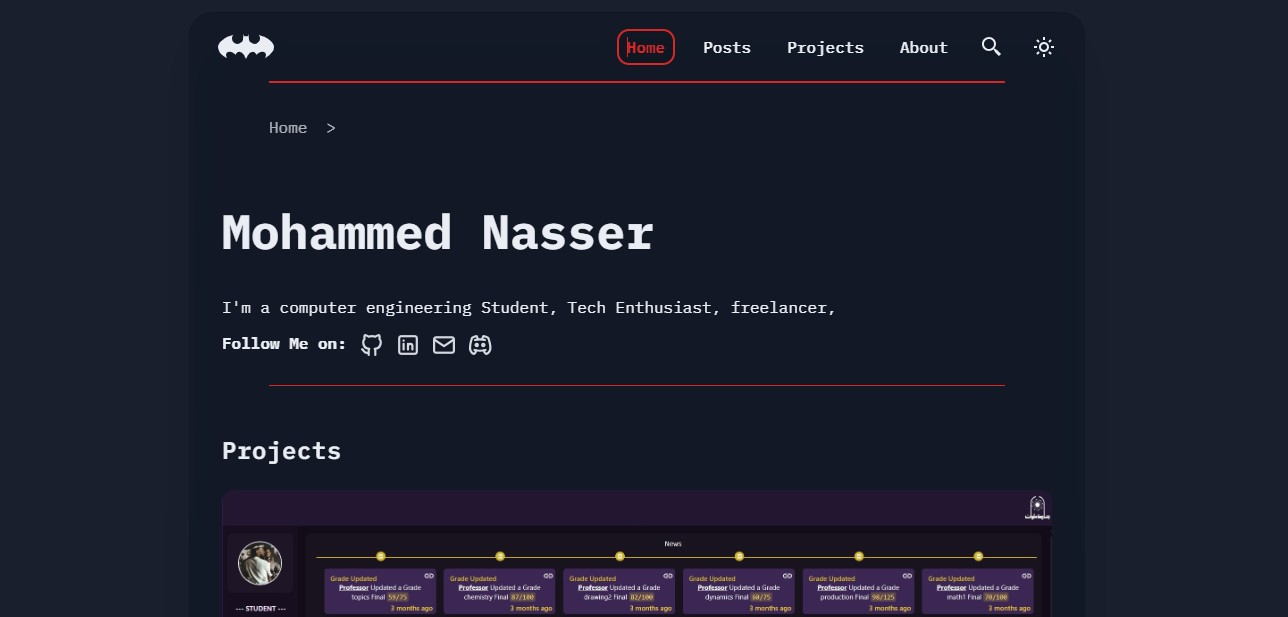
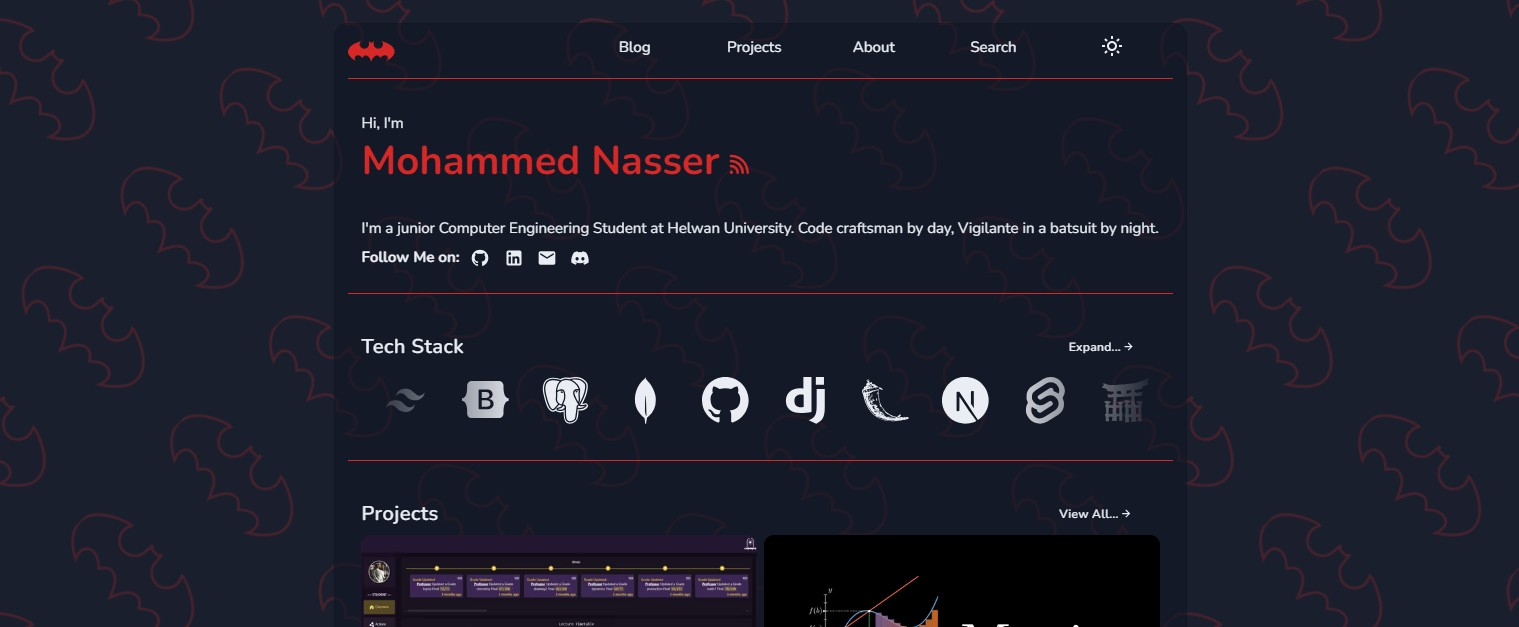
refactor sorting items needs type gymnastics, adding new project, fix datetime component

diff --git a/src/pages/rss.xml.ts b/src/pages/rss.xml.ts
@@ -1,20 +1,17 @@
 import rss from "@astrojs/rss";
 import { getCollection } from "astro:content";
-import getSortedPosts from "@utils/getSortedPosts";
+import getSorted from "@utils/getSortedPosts";
 import slugify from "@utils/slugify";
 import { SITE } from "@config";
 
 export async function GET() {
-  const posts = await getCollection("blog");
-  const sortedPosts = getSortedPosts(posts);
-  const projects = await getCollection("blog");
-  const items = [...sortedPosts, ...projects].map(({ data, collection }) => ({
+  const sortedPosts = await getSorted("blog", "projects");
+  const items = sortedPosts.map(({ data, collection }) => ({
     link: `${collection == "blog" ? "blog": "projects"}/${slugify(data)}`,
     title: data.title,
     description: data.description,
     pubDate: new Date(data.dateTime),
   })) 
-  
   return rss({
     title: SITE.title,
     description: SITE.desc,

diff --git a/src/utils/getSorted.ts b/src/utils/getSorted.ts
@@ -1,0 +1,15 @@
+import  { getCollection  } from "astro:content";
+
+const getSorted = async (...itemTypes: ("blog" | "projects")[]) => {
+const items = await Promise.all(itemTypes.map(async itemType => await getCollection(itemType))).then(entries => entries.flat());
+const sortedItems = items
+    .filter(({ data }) => !data.draft)
+    .sort(
+      (a, b) =>
+        new Date(b.data.dateTime).getTime() -
+        new Date(a.data.dateTime).getTime()
+    );
+      return sortedItems;
+} ;
+
+export default getSorted;

diff --git a/src/config.ts b/src/config.ts
@@ -259,6 +259,14 @@ export const HOBBIES = [
       display: false
   
     },
+    vercel: {
+      name: "Vercel",
+      icon: "simple-icons:vercel",
+      url: "https://vercel.com/",
+      description: "A platform for hosting and deploying websites.",
+      type: "Technology",
+      display: true
+    },
     docker: {
       name: "Docker",
       icon: "mdi:docker",

diff --git a/src/content/projects/portfolio.md b/src/content/projects/portfolio.md
@@ -1,0 +1,314 @@
+---
+dateTime: 2023-12-23T00:00:00Z
+title: Personal Blog & Portfolio
+description: Non-trivial astro personal blog and porftfolio.
+slug: this
+projectURL: https://github.com/elweday/elweday
+tags:
+  - astro
+  - SSR
+  - SSG
+  - algorithms
+  - optimization
+
+stack:
+  - astro
+  - typescript
+  - javascript
+  - vercel
+
+media:
+  - "../images/portfolio.jpg"
+---
+
+## Astro
+Astro has the most trivial way to implement a blog thx to [Content Collections](https://docs.astro.build/en/guides/content-collections/), the start project is literally a blog and there other starting blog templates like [AstroPaper](https://astro.build/themes/details/astro-paper/) (this blog was based on it) , however this project has some intersting non-trivial implementations.
+
+## opt-in to SSR
+This project was inilially intended to be `statically generated` and deployed to github pages, why not you might ask ?
+I thought of it as a challenge to go back to the classics doing as much as possible with just plain old js, maybe with sprinkles of typescript, but the logic holds.
+
+However, When implementing this contact me form, it will use an API service to deliver the message to me, and this service will require an API key, and to make everything clientside ... this API key would be sent to the user, which is not obviously not safe, It can be redacted but cannot completly removed. 
+![Contact me](../images/form.jpg)
+
+So, generally when using sensitive data it should be server-side. 
+
+```typescript
+import { defineConfig } from "astro/config";
+
+export default defineConfig({
+  // options
+  output: "hybrid", // default "static" also takes "server" 
+});
+```
+
+output `hybrid` basically means you're using SSG (static site generation) mode, unless you say otherwise.
+you can use this snippet in your desired path to make it serverside rendered.
+
+```typescript
+// in `pages/path.astro`
+export const prerender = false;
+```
+
+## SEO
+Astro went big on SEO, 
+
+It's a common practice in Astro to make a template that takes  
+```astro
+    ---
+    export interface Props {
+      title: string;
+      description?: string;
+      ogImage?: string;
+    }
+
+    let {
+      title = "Fallback title",
+      description = "Fallback desc",
+      ogImage = "/assets/fallback.jpg",
+    } = Astro.props;
+
+    const author = "Nasser"
+    const canonicalURL = new URL(Astro.url.pathname, Astro.site).href; 
+
+    ---
+    <!-- Other content -->
+    <head>
+      <meta charset="UTF-8" />
+      <meta name="viewport" content="width=device-width" />
+      <link rel="icon" type="image/svg+xml" href="/favicon.svg" />
+      <link rel="canonical" href={canonicalURL} />
+      <meta name="generator" content={Astro.generator} />
+      <title>{title}</title>
+      <meta name="title" content={title} />
+      <meta name="description" content={description} />
+      <meta name="author" content={SITE.author} />
+      <link rel="sitemap" href={SITE.website+"/rss.xml"} />
+    </head>
+    <body>
+        <header><!-- header --></header>
+        <aside><!-- side bar --></aside>
+        <slot>
+        <footer><!-- footer --></footer>
+    </body>
+```
+It's a common practice in astro to use a Layout component to add all the meta tags and overwrite it when desired and never worry about them.
+
+### Dynamic OG images
+when you're posting some post to facebook (YOU'RE A BOOMER) you might find the post look something like this.
+![Dynamic OG](../images/dynamic-og.jpg)
+  
+To implement this behaviour you add meta tags like this one. 
+```html
+<meta property="og:image" content="<url>" />
+```
+but wait a minute, this way makes all posts has the same image, or you create an Image for every post by hand, which is impossible,
+that's why it is done dynamically, which is hard but recently it was made easier thanks to vercel's `satori` (Sounds like an Anime character)
+which takes JSX-like markup and returns svg image, and then you might use something like `resvg`to convert the svg bufer to a png.
+Now how to make it into a dynamic image on the web ?
+on your framework of choice you can add an API Endpoint, 
+make it return
+```typescript
+export const GET: APIRoute = async ({ props }) =>
+  new Response(await generateOGImage(props), {
+    headers: { "Content-Type": "image/png" },
+});
+```
+and you might make all the images generated on build time in astro by supplying `getStaticPaths` function.
+```typescript
+export async function getStaticPaths() {
+  const posts = await getCollection("blog");
+  return posts.map(post => ({
+    params: { slug: post.slug },
+    props: post,
+  }));
+}
+```
+
+so that if the post is at `https://your-domain.com/blog/portfolio`, the OG Image is at `https://your-domain.com/blog/portfolio.png` or any other setup you like.
+Then add it dynamically to the layout
+```astro
+<meta property="og:image" content={`https://your-domain.com/blog/${postSlug}.png`} />
+```
+
+## Image optimization
+One of the most important aspects of a website is performance
+what to render, when to render it, and how to do so, all to ensure the best performance.
+You can approach that by optimizing images to make the website load fast and provide better user experience.
+
+Astro provides modulues to 
+- Compress Images to multiple versions that are used according to the users need.
+- Which will decrease bundle size.
+- Decrease load time.
+- Done at either build or runtime.
+- Use `webp` or `avif` that are modern lighter alternative formats.
+
+## View transitions 
+You might have seen view transitions api used, if not check it out in examples like [this one](https://live-transitions.pages.dev/) for multitude of things, but I'll show you how I used it to animate navbar state based on current route.
+
+```astro
+          <ul id="menu" class="nav-items-container ">
+            {
+              PATHS.map(({name, path, icon}) => {
+                const isActive = currentPagePath.includes(trim(path, "/"))
+                return (
+                  <li class="nav-item-wrapper">
+                    this 
+                    <a href={path}  class={"nav-item" + (isActive?" non-animating-styles":"")}>
+                      <span class="place-self-center  w-full">{name}</span>
+                    </a>
+                    {/* Moving Rectangle */ 
+                     isActive ? (<span transition:name="active-nav" class="absolute top-0 left-0 h-full hidden sm:block w-full  border-skin-accent bg-black/10 border-2 rounded-xl"></span>) : null }
+                    </li>)
+              })
+          }
+```
+and used the same way to implement tabs, and here is the output.
+![View Transitions](../images/view-transitions-loop.gif)
+
+## Search
+### Search by tag
+This is server-side, gets the query params and renders the posts assiociated with the desired tags.
+
+```typescript
+import { slugifyAll } from "./slugify";
+import type { CollectionEntry } from "astro:content";
+
+type ItemsType = CollectionEntry<"blog"> | CollectionEntry<"projects">
+const getItemsByTags = (Items: ItemsType[], tags: string[]) => {
+  const checkTags = (item: Item) =>
+    tags?.some(tag => slugifyAll(item.data.tags).includes(tag));
+  return Items.filter(checkTags);
+};
+
+export default getItemsByTags;
+```
+
+and then render use it to render tags.
+
+### Search by text
+This one is client-side, And you might think I'd use [fuse.js](https://www.fusejs.io/) which a great library to introduce fuzzy search to your project. 
+> Fuzzy Search: it is antynom of `exact search`, search by proximity using multiple matching algorithms.
+
+But I wanted to implement something fast and custom and I'll probably move it to the sever and use fuzzy search once the number of items increase, but it's fine for now.
+
+```typescript 
+const allitems = await getCollection("blog");
+const allProjects = await getCollection("projects");
+const allItems = [...allitems, ...allProjects];
+const Items = getItemsByTags(allItems, tags);
+```
+and render them and them all and then hide them in the client-side, which is -again- a bad idea but it's fine for small number of items to be loaded all at once.
+
+```typescript
+  import { slugifyStr } from "@utils/slugify";
+  import { getCollection, type  CollectionEntry } from "astro:content";
+  import removeMd from "remove-markdown"; 
+  const posts = await getCollection("blog");
+  const projects = await getCollection("projects"); 
+  type Entry = CollectionEntry<"blog"> | CollectionEntry<"projects"> 
+  type searchResult =  {
+        match: [string, string, string]
+        title: string
+  }
+
+  const WINDOW_SIZE = 800; 
+  const SENTENCES = 2; 
+
+  const entries = [...posts, ...projects] as Entry[] 
+  const entryCount = entries.length 
+  function sentence(s: string, first: boolean) {
+      const delimiters = /[.!?,;\n]/g; 
+      const delimiterPositions = [...s.matchAll(delimiters)].map(match => match.index);
+      if (first) {
+          const firstDelimiterPosition = delimiterPositions.at(SENTENCES);
+          return firstDelimiterPosition !== undefined ? s.slice(0, firstDelimiterPosition + 1) : s;
+      } else {
+          const lastDelimiterPosition = delimiterPositions.at(-SENTENCES);
+          return lastDelimiterPosition !== undefined ? s.slice(lastDelimiterPosition + 1) : s;
+      }
+    }
+
+  function getMatch(entry: Entry, query: string) {
+        const blob = [entry.data.title, entry.data.description, removeMd(entry.body)].join("\n")
+        const start = blob.toLowerCase().indexOf(query.toLowerCase())
+        const end = start + query.length
+        if (start !== -1) {
+
+          const pre = sentence(blob.slice(start - WINDOW_SIZE, start), false)
+          const match = blob.slice(start, end)
+          const post = sentence(blob.slice(end, end + WINDOW_SIZE), true)
+
+            return{
+                match: [pre, match, post],
+                title: slugifyStr(entry.data.title)
+            }        
+        }
+
+    }
+
+    function updateList(q: string) {
+      const url = new URL(window.location as any) ;
+      url.searchParams.set('q', q);
+      if (!q) url.searchParams.delete("q");
+      window.history.pushState(null, '', url.toString());
+      const searchResults = q!==""?
+       entries.map((entry) => getMatch(entry, q)).filter((match) => match !== undefined) as searchResult[]: [] as searchResult[];;
+      let hiddenCount = 0;
+      const parentElement = document.getElementById("search-results") as HTMLUListElement
+      [...parentElement.children].forEach((child: any) => {
+        if (!searchResults) return;
+        const match = searchResults.find(({title}) => title === child.dataset.title) as searchResult;
+        if (match) {
+          child.classList.remove("hidden")
+          child.querySelector(`[aria-label='pre']`).innerText = match.match[0]
+          child.querySelector(`[aria-label='match']`).innerText = match.match[1]
+          child.querySelector(`[aria-label='post']`).innerText = match.match[2]
+        }
+        else {
+          child.classList.add("hidden")
+          hiddenCount += 1
+        }
+      });
+
+      const nMatches = document.getElementById("number-of-results") as HTMLParagraphElement;
+      if (hiddenCount !== entryCount)
+      {
+        nMatches.innerText = `Found ${searchResults.length} ${searchResults.length === 1 ? "result" : "results" } for "${q}"`
+      }
+      else {
+        if (q === "")
+        {
+          nMatches.innerText = `Start Typing to get results!`
+        } else {
+          nMatches.innerText = `No results found for "${q}" `
+        }
+      }
+    }
+
+ 
+    const url = new URL(window.location as any) ;
+    const q = url.searchParams.get('q');
+    console.log(q)
+    if (q) {
+      (document.querySelector("#search-input") as HTMLInputElement).value = q;      
+      updateList(q)
+    };
+    addEventListener("input", (e: any) =>{ 
+      if (e.target.id !== "search-input") return;
+      updateList(e.target.value)
+    });
+
+```
+> this might be a huge blob of code but it's not doing any magic, jsut hiding items and handling different cases.
+
+![Search By text](../images/search-text.jpg)
+
+## BATMAN
+as you might have seen this site is sarcastically? heavily-batman-themed, which a great way to learn about svg pattern, `filter`s, optimization, `path`, `defs`, ...etc
+ 
+## Glossary
+This was a great project to learn about build tools capabilities, browser APIs, type-safety, project structuring.
+
+
+

diff --git a/src/content/projects/college-site.md b/src/content/projects/college-site.md
@@ -1,6 +1,6 @@
 ---
-dateTime: 2023-6-23T00:00:00Z
-endDate: 2023-9-23T00:00:00Z
+dateTime: 2023-9-23T00:00:00Z
+endDate: 2023-10-23T00:00:00Z
 title: College Tracking System
 description: College website with intuitive dashboard, control center, and detailed grade statistics for students and educators.
 slug: college-tracking-system

diff --git a/src/content/projects/manim.md b/src/content/projects/manim.md
@@ -1,5 +1,5 @@
 ---
-dateTime: 2023-11-23T00:00:00Z
+dateTime: 2023-8-23T00:00:00Z
 endDate: 2024-1-23T00:00:00Z
 title: Mathematical Animations
 description: Programatic Mathmatical Animations Using manim.
